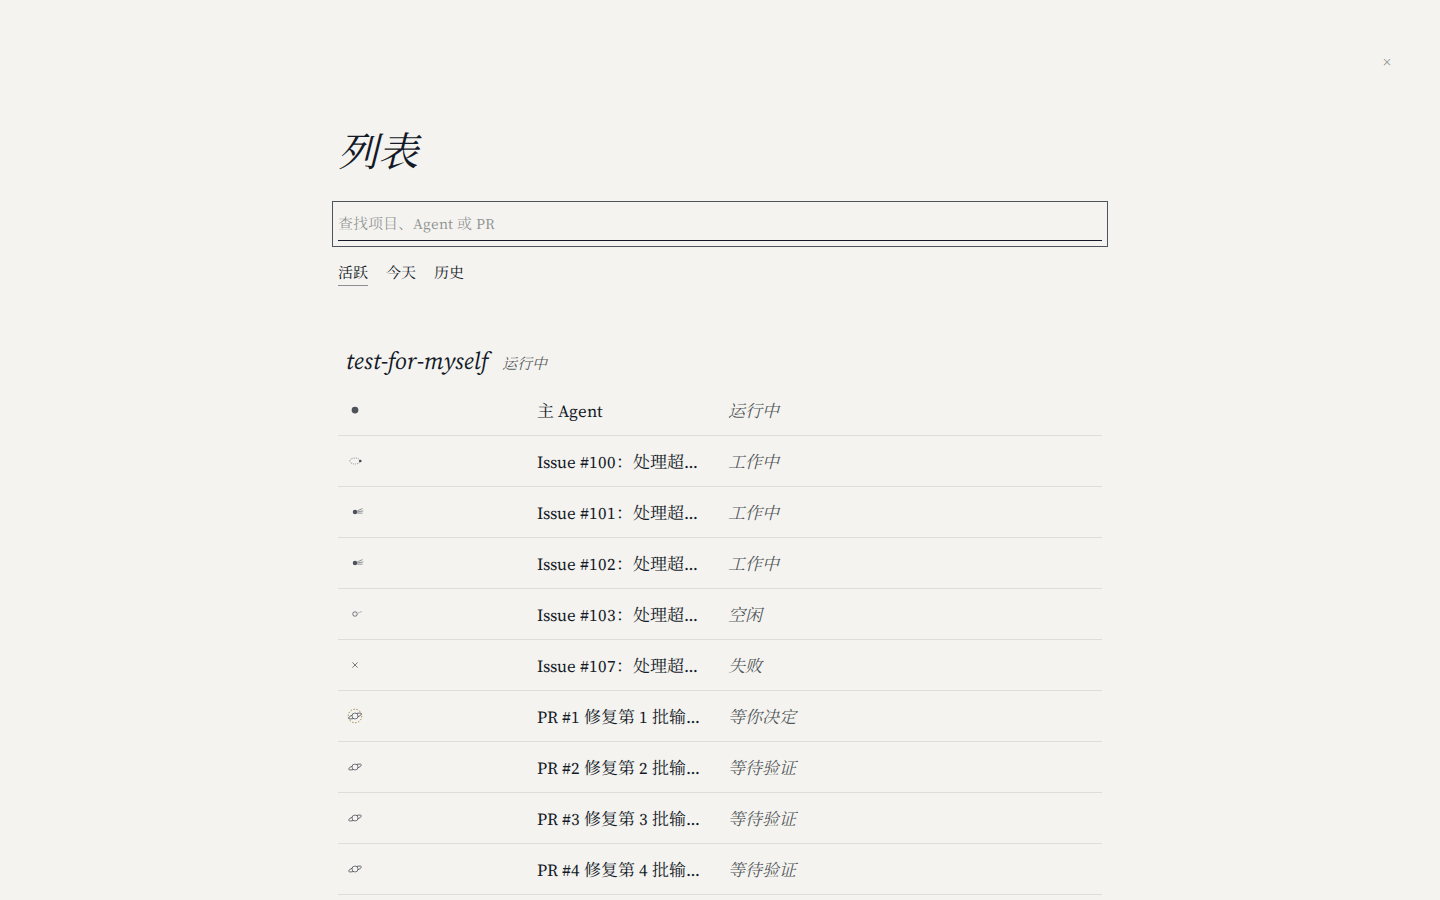
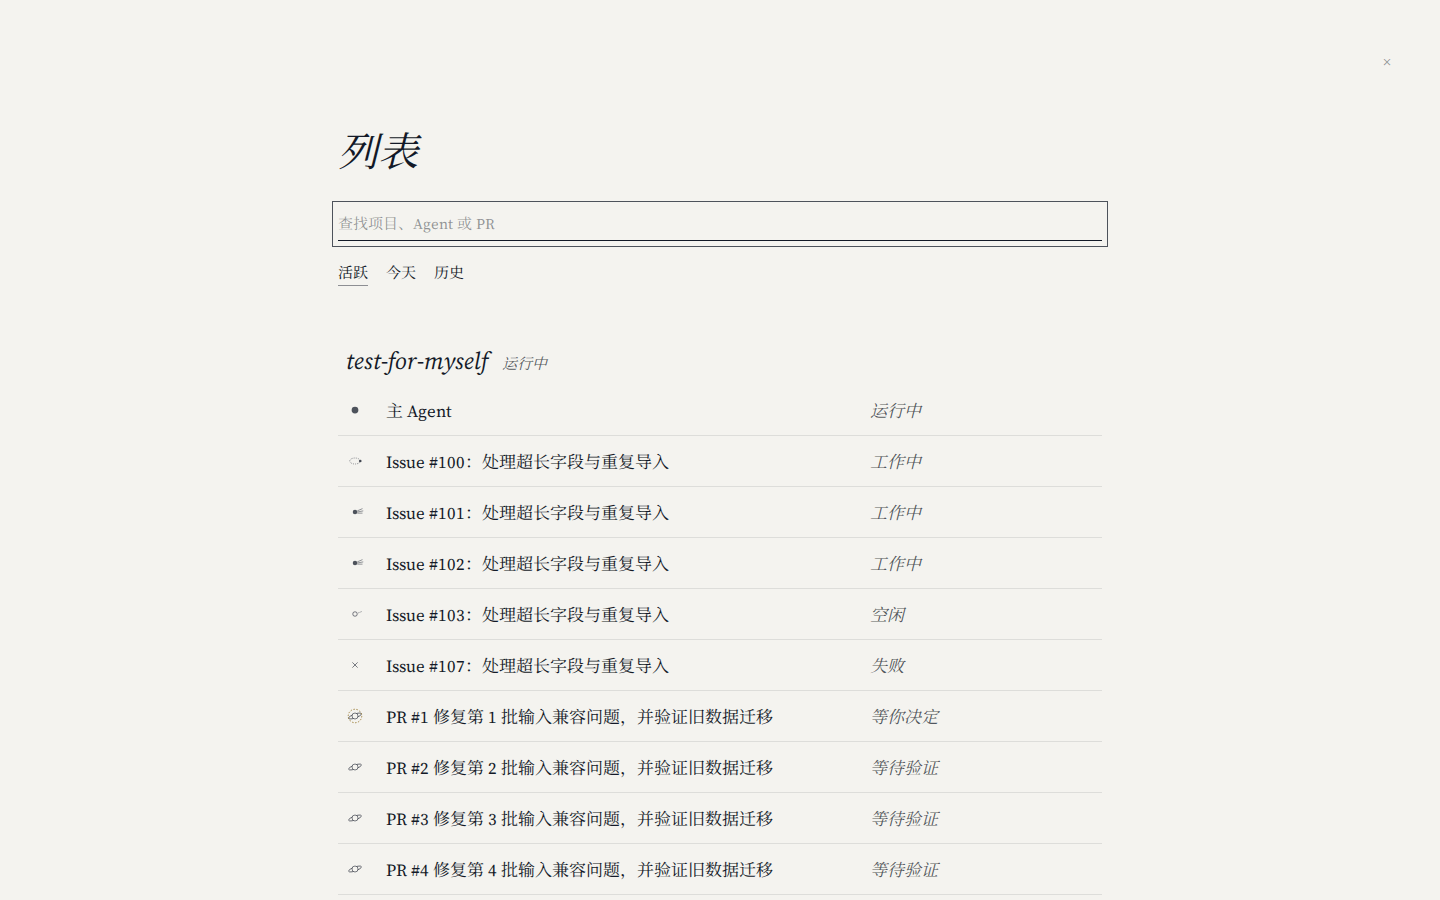
fix(stars): give catalogue glyph and status columns fixed widths

diff --git a/web/src/stars/PeripherySlot.tsx b/web/src/stars/PeripherySlot.tsx
@@ -173,7 +173,7 @@ export default function PeripherySlot(props: StarsSlotProps) {
     <nav className={`stars-tools${state.selection || state.platformPanel || state.overlay === "list" ? " covered" : ""}`} aria-label="工具">{(["brief", "list", "timeline", "legend", "display"] as Overlay[]).map((o, i) => <button key={o} aria-pressed={state.overlay === o} className={state.overlay === o ? "on" : ""} onClick={() => state.overlay === o ? ui.close() : ui.openOverlay(o)}>{["简报", "列表", "时间", "图例", "显示"][i]}</button>)}</nav>
     {(!projects.length || (setup && (!setup.github.configured || !setup.models.available))) && <section className="periphery-onboarding" aria-label="首次使用"><h2>开始你的第一个项目</h2>{!setup ? <p role="status">{platformError || "正在读取接入和模型状态…"}{platformError && <button onClick={() => setPlatformAttempt((n) => n + 1)}>重新读取状态</button>}</p> : <ol>{[[setup.github.configured && setup.github.installations > 0, "接入 GitHub", () => ui.openPlatform("setup")], [setup.models.available && models?.gatewayAvailable === true, "填写模型凭证", () => ui.openPlatform("models")], [projects.length > 0, "创建第一个项目", openCreate]].map(([done, label, run]) => <li key={String(label)} data-complete={!!done}><span aria-hidden="true">{done ? "★" : "☆"}</span><button onClick={run as () => void}>{String(label)}，{done ? "已完成" : "待完成"}</button></li>)}</ol>}</section>}
     <section className={`periphery-brief${state.overlay === "brief" ? " open" : ""}`} aria-label="简报" role="dialog" aria-hidden={state.overlay !== "brief"} inert={state.overlay !== "brief"}><h2>{needCount ? "有事需要你。" : "一切正常，不需要你做什么。"}</h2><p className="sub">{summary}</p><div className="periphery-foot"><button className="go" onClick={enterStars}>进入星图</button><label><input type="checkbox" checked={skip} onChange={(e) => { setSkip(e.target.checked); preference.write("sj-brief", e.target.checked ? "off" : "on"); }} />下次直接进入星图</label></div><div className="periphery-brief-body"><h3>需要你</h3>{decisions.slice(0, 3).map(({ e, d }) => d.kind === "pr" ? briefItem(`PR #${d.pr.number} ${prSummary(d.pr, 30)}`, e.s.hive.name, () => ui.selectObject({ hiveId: e.id, kind: "pr", id: d.id, number: d.pr.number }), `${e.id}:${d.id}`, true) : briefItem(messagePreview(d.message), e.s.hive.name, () => d.message.from === "queen" ? ui.selectObject({ hiveId: e.id, kind: "queen", id: `${e.id}:queen` }) : ui.selectObject({ hiveId: e.id, kind: "agent", id: d.message.from.replace(/^forager:/, "") }), `${e.id}:${d.id}`, true))}{decisions.length > 3 && briefItem(`还有 ${decisions.length - 3} 个`, "在列表里查看", () => { setScope("active"); setSearch(""); ui.openOverlay("list"); }, "more-decisions")}{!decisions.length && <p className="periphery-muted">暂时没有等你决定的事。</p>}{!loaded && <p role="status">正在读取项目…</p>}{entries.some((e) => e.state.resources.prs.status === "loading") && <p role="status">正在向 GitHub 读取 PR…</p>}<h3>正在进行</h3>{active.slice(0, 3).map(({ e, a }) => briefItem(agentSummary(a, { prs: e.s.prs, issues: e.s.signals }, 30), e.s.hive.name, () => ui.selectObject({ hiveId: e.id, kind: "agent", id: a.id }), a.id))}{active.length > 3 && briefItem(`还有 ${active.length - 3} 个`, "在列表里查看", () => { setScope("active"); setSearch(""); ui.openOverlay("list"); }, "more-active")}{!active.length && <p className="periphery-muted">当前没有工作中的 Agent。</p>}<h3>需要留意</h3>{attention.map(({ e, a }) => <div className="periphery-attention" key={a.id}>{briefItem(agentSummary(a, { prs: e.s.prs, issues: e.s.signals }, 30), a.state === "failed" ? "失败" : "仍占名额", () => ui.selectObject({ hiveId: e.id, kind: "agent", id: a.id }), `attention:${a.id}`)}<button className="ack" onClick={() => acknowledge(e, a)}>知道了</button></div>)}{setup && (!setup.models.available || models?.gatewayAvailable === false) && briefItem(models?.gatewayAvailable === false ? "模型服务无法连接，请检查服务。" : setup.models.configured ? "凭证已保存，目前无可用凭证。" : "尚无可用模型凭证。", "平台设置", () => ui.openPlatform("models"), "models")}{platformError && <p role="alert">无法读取平台状态：{platformError} <button onClick={() => setPlatformAttempt((n) => n + 1)}>重新读取状态</button></p>}{!attention.length && !platformError && <p className="periphery-muted">{setup && loaded ? "已读取最新平台与项目状态。" : "正在检查平台与项目状态…"}</p>}<h3>昨晚完成</h3><p className="periphery-muted">{lastNight} 个 Agent 完成（按更新时间近似）；昨晚合并数和花费暂时无法获取。</p>{usage && <p className="periphery-muted">今天花费 {money(usage.totals.costUsd)}</p>}</div></section>
-    <section className={`periphery-list${state.overlay === "list" ? " open" : ""}`} role="dialog" aria-label="列表" aria-hidden={state.overlay !== "list"} inert={state.overlay !== "list"}><button className="periphery-sheet-x" aria-label="关闭" onClick={() => ui.close()}>×</button><div className="inner"><h2>列表</h2><input ref={listInput} aria-label="查找项目、Agent 或 PR" placeholder="查找项目、Agent 或 PR" autoComplete="off" value={search} onChange={(e) => setSearch(e.target.value)} /><div className="periphery-scope" aria-label="列表筛选">{(["active", "today", "history"] as const).map((value, i) => <button key={value} className={scope === value ? "on" : ""} aria-pressed={scope === value} onClick={() => setScope(value)}>{["活跃", "今天", "历史"][i]}</button>)}</div><table><tbody>{groups.map(({ e, rows: projectRows }) => <FragmentRows key={e.id} e={e} rows={projectRows} glyph={glyph} />)}{!groups.length && <tr><td className="s" colSpan={4}>{loaded ? "没有找到。" : "正在读取项目列表…"}</td></tr>}</tbody></table></div></section>
+    <section className={`periphery-list${state.overlay === "list" ? " open" : ""}`} role="dialog" aria-label="列表" aria-hidden={state.overlay !== "list"} inert={state.overlay !== "list"}><button className="periphery-sheet-x" aria-label="关闭" onClick={() => ui.close()}>×</button><div className="inner"><h2>列表</h2><input ref={listInput} aria-label="查找项目、Agent 或 PR" placeholder="查找项目、Agent 或 PR" autoComplete="off" value={search} onChange={(e) => setSearch(e.target.value)} /><div className="periphery-scope" aria-label="列表筛选">{(["active", "today", "history"] as const).map((value, i) => <button key={value} className={scope === value ? "on" : ""} aria-pressed={scope === value} onClick={() => setScope(value)}>{["活跃", "今天", "历史"][i]}</button>)}</div><table><colgroup><col className="col-glyph" /><col className="col-summary" /><col className="col-status" /><col className="col-cost" /></colgroup><tbody>{groups.map(({ e, rows: projectRows }) => <FragmentRows key={e.id} e={e} rows={projectRows} glyph={glyph} />)}{!groups.length && <tr><td className="s" colSpan={4}>{loaded ? "没有找到。" : "正在读取项目列表…"}</td></tr>}</tbody></table></div></section>
     <section className={`periphery-pop periphery-legend${state.overlay === "legend" ? " open" : ""}`} role="dialog" aria-label="图例" aria-hidden={state.overlay !== "legend"} inert={state.overlay !== "legend"}><h2>图例</h2>{([ ["star", "主 Agent，每个项目中间的那颗"], ["hist", "做完的事，散在最外层；越亮越新"], ["cluster", "放不下的 PR 或 Issue，点开看全部"], ["busy", "工作中的 Agent，尾巴越长越忙"], ["parked", "空闲的 Agent"], ["failed", "失败的 Agent"], ["pr", "PR"], ["ready", "等你决定的 PR"], ["moon", "正在验证 PR 的 verifier"], ["signal", "GitHub 上的 Issue"], ["ci", "未通过的 CI"], ["queue", "排队等待的任务"], ["you", "你"] ] as [StarGlyph, string][]).map(([kind, label]) => <div className="k" key={kind}>{glyph(kind)}<span>{label}</span></div>)}</section>
     <section className={`periphery-pop periphery-display${state.overlay === "display" ? " open" : ""}`} role="dialog" aria-label="显示" aria-hidden={state.overlay !== "display"} inert={state.overlay !== "display"}><div className="opt">风格<span>{(["classic", "simple"] as const).map((value, i) => <button key={value} className={theme.style === value ? "on" : ""} aria-pressed={theme.style === value} onClick={() => themeStore.setStyle(value)}>{["经典", "简洁"][i]}</button>)}</span></div><div className="opt">主题<span>{Object.entries(THEMES).map(([id, t]) => <button key={id} className={theme.choice === id ? "on" : ""} aria-pressed={theme.choice === id} onClick={() => themeStore.setTheme(id as ThemeChoice)}>{t.label}</button>)}<button className={theme.choice === "system" ? "on" : ""} aria-pressed={theme.choice === "system"} onClick={() => themeStore.setTheme("system")}>跟随系统</button></span></div><div className="opt">经纬线<span><button className={theme.render.grid ? "on" : ""} aria-pressed={theme.render.grid} onClick={() => themeStore.setGrid(true)}>显示</button><button className={!theme.render.grid ? "on" : ""} aria-pressed={!theme.render.grid} onClick={() => themeStore.setGrid(false)}>隐藏</button></span></div></section>
     <form className={`stars-say${state.overlay === "brief" || state.overlay === "timeline" ? " suppressed" : ""}`} onSubmit={onSay}><input ref={input} aria-label="对话与命令" aria-describedby="periphery-say-hint" placeholder="对主 Agent 说：新任务、问题都可以" autoComplete="off" value={text} onChange={(e) => setText(e.target.value)} /><button className="stars-say-submit" disabled={!text.trim() || (busy && !route)} aria-label={route ? "前往" : "发送"}>{route ? "前往" : "发送"}</button></form><div id="periphery-say-hint" className={`stars-say-hint${text ? " on" : ""}`} role="status">{text ? `回车${route ? route.label : current ? "发给主 Agent" : "前请先选择项目"}` : ""}</div>

diff --git a/web/src/stars/periphery.css b/web/src/stars/periphery.css
@@ -29,6 +29,7 @@
 .periphery-list input{display:block;width:100%;margin-top:26px;padding:6px 0!important;border:0!important;border-bottom:1px solid var(--ink3)!important;background:none!important;font:italic 20px var(--body);outline:0;outline-offset:0}.periphery-list input:focus-visible{outline:1px solid var(--ink2)!important;outline-offset:5px!important;border-color:var(--ink)!important}.periphery-list input::placeholder{color:var(--ink3)}
 .periphery-scope{display:flex;gap:18px;margin-top:18px}.periphery-scope button{font:italic 16px var(--body);color:var(--ink3);border-bottom:1px solid transparent!important;padding:2px 0!important}.periphery-scope button:hover,.periphery-scope button.on{color:var(--ink);border-color:var(--ink3)!important}
 .periphery-list table{width:100%;border-collapse:collapse;margin-top:18px;table-layout:fixed}.periphery-list td{padding:12px 8px;border-bottom:1px solid var(--hair);font-size:17px;vertical-align:middle}.periphery-list tr.item{cursor:pointer}.periphery-list tr.item:hover td,.periphery-list tr.item:hover .g{color:var(--ink)}.periphery-list tr.item:focus-visible{outline:1px solid var(--ink2);outline-offset:2px}
+.periphery-list .col-glyph{width:40px}.periphery-list .col-status{width:150px}.periphery-list .col-cost{width:90px}
 .periphery-list .g{width:40px;color:var(--ink2)}.periphery-list .g svg{width:18px;height:18px;display:block}.periphery-list td:nth-child(2){overflow:hidden;text-overflow:ellipsis;white-space:nowrap}.periphery-list .s{width:150px;color:var(--ink2);font-style:italic;white-space:nowrap}.periphery-list .c{text-align:right;color:var(--ink3);font-variant-numeric:oldstyle-nums;width:90px;white-space:nowrap}.periphery-list tr.grp td{border:0;padding:40px 8px 8px;font:italic 24px var(--body)}.periphery-list tr.grp small{font-size:15px;color:var(--ink2);margin-left:14px}
 .periphery-pop{position:absolute;right:52px;bottom:88px;background:var(--veil);border:1px solid var(--hair);outline:1px solid var(--hair);outline-offset:3px;padding:22px 26px;opacity:0;pointer-events:none;transform:translateY(6px);transition:opacity .3s,transform .3s;z-index:7}.periphery-pop.open{opacity:1;pointer-events:auto;transform:none}
 .periphery-legend{width:300px}.periphery-legend h2{font:400 20px var(--title);margin:0 0 12px}.periphery-legend .k{display:flex;align-items:center;gap:14px;font-size:15px;color:var(--ink2);padding:5px 0}.periphery-legend .k svg{width:22px;height:22px;flex:none;color:var(--ink)}
@@ -39,6 +40,7 @@
 .stars-login-mark{position:absolute;left:60px;top:54px;font:italic 400 21px var(--title)}.stars-login{position:absolute;left:50%;top:50%;transform:translate(-50%,-50%);width:min(500px,calc(100vw - 52px));max-height:calc(100vh - 80px);overflow:auto;scrollbar-width:none;background:var(--paper);border:1px solid var(--hair);outline:1px solid var(--hair);outline-offset:-7px;padding:56px 64px 48px}.stars-login-kicker{font:italic 15px var(--body);color:var(--ink2);margin:0 0 12px}.stars-login h1{font:italic 400 40px var(--title);margin:0}.stars-login-lead{font-size:17px;line-height:1.6;color:var(--ink2);margin:10px 0 28px}.stars-login label{display:block;margin:22px 0;font-size:15px;color:var(--ink2)}.stars-login input{display:block;width:100%;border:0;border-bottom:1px solid var(--ink3);background:transparent;padding:10px 0 6px;font-size:17px;color:var(--ink)}.stars-login input:focus-visible{outline:0;border-color:var(--ink)}.stars-login-submit{font:italic 17px var(--body)!important;color:var(--ink)!important;border-bottom:1px solid var(--ink)!important;padding:2px 0!important;margin-top:10px}.stars-login [role=alert]{line-height:1.7;color:var(--accent)}
 .stars-login-page .stars-login{animation:login-enter .5s both}.stars-login-page.leaving .stars-login{animation:login-leave .3s both}.stars-login-page.leaving .stars-login-mark{opacity:0;transition:opacity .3s}@keyframes login-enter{from{opacity:0;transform:translate(-50%,calc(-50% + 10px))}to{opacity:1;transform:translate(-50%,-50%)}}@keyframes login-leave{to{opacity:0;transform:translate(-50%,calc(-50% + 10px))}}
 @media(max-width:720px){.stars-mark{left:30px;top:30px}.stars-cartouche{left:30px;bottom:175px;max-width:calc(100vw - 60px)}.stars-cartouche h1{font-size:24px}.stars-say{width:220px}.stars-say:focus-within{width:calc(100vw - 60px)}.stars-tools{right:28px;bottom:92px;gap:10px;max-width:calc(100vw - 56px);flex-wrap:wrap;justify-content:flex-end}.stars-tools button{font-size:14px}.periphery-brief{left:30px;top:90px;width:calc(100vw - 60px);max-height:calc(100vh - 200px)}.periphery-list .inner{margin:90px auto 70px;padding:0 30px}.periphery-list .s{width:88px}.periphery-list .c{width:58px}.periphery-list td{font-size:14px;padding:10px 4px}.periphery-pop{right:20px;bottom:130px;max-width:calc(100vw - 40px)}.periphery-display .opt span{gap:8px}.periphery-display .opt button{font-size:13px}.periphery-create{padding:22px}.stars-login-mark{left:30px;top:30px}.stars-login{padding:50px 32px 36px}}
+@media(max-width:720px){.periphery-list .col-status{width:88px}.periphery-list .col-cost{width:58px}}
 @media(prefers-reduced-motion:reduce){.periphery-list,.periphery-pop,.periphery-brief,.stars-say,.stars-say-hint,.stars-cartouche h1,.stars-cartouche p,.stars-status{transition:none!important}.stars-login-page .stars-login{animation:none!important}}
 /* Approved contrast exception: readable auxiliary text uses the existing ink2. */
 .stars-crumbs,.stars-say-hint,.periphery-brief h3,.periphery-it-state,

diff --git a/web/tests/round8-periphery.spec.ts b/web/tests/round8-periphery.spec.ts
@@ -62,6 +62,30 @@ test("375px 和快捷键可操作", async ({ page }) => {
   await expect(page.getByLabel("对话与命令")).toBeFocused();
 });
 
+test("列表图标与状态列保持设计宽度，摘要占剩余空间且手机可打开详情", async ({ browser }) => {
+  for (const width of [1440, 375]) {
+    const context = await browser.newContext({ viewport: { width, height: 900 }, reducedMotion: "reduce" });
+    const page = await context.newPage();
+    await preview(page);
+    await page.getByRole("button", { name: "进入星图" }).click();
+    await page.getByRole("button", { name: "列表", exact: true }).click();
+    const list = page.getByRole("dialog", { name: "列表" });
+    await expect(list).toBeVisible();
+    const sizes = await list.locator("tr.item").first().locator("td").evaluateAll((cells) => cells.map((cell) => Math.round(cell.getBoundingClientRect().width)));
+    console.log(`catalogue ${width}px columns: ${sizes.join(" / ")}`);
+    expect(sizes, `${width}px column widths`).toHaveLength(4);
+    expect(sizes[0], `${width}px glyph`).toBeLessThanOrEqual(48);
+    expect(sizes[2], `${width}px status`).toBeLessThanOrEqual(width === 1440 ? 158 : 96);
+    expect(sizes[3], `${width}px cost`).toBeLessThanOrEqual(width === 1440 ? 98 : 66);
+    expect(sizes[1], `${width}px summary`).toBeGreaterThan(width === 1440 ? 400 : 100);
+    expect(await list.evaluate((element) => element.scrollWidth)).toBeLessThanOrEqual(width);
+    await list.getByLabel("查找项目、Agent 或 PR").fill("PR #1");
+    await list.locator("tr.item").first().click();
+    await expect(page.getByRole("region", { name: "对象详情" })).toBeVisible();
+    await context.close();
+  }
+});
+
 test("明亮和夜空稳定画面逐层执行完整 axe", async ({ browser }) => {
   for (const theme of ["bright", "night"] as const) {
     const context = await browser.newContext({ viewport: { width: 1440, height: 900 }, reducedMotion: "reduce" });

diff --git a/docs/claude/round8-periphery/README.md b/docs/claude/round8-periphery/README.md
@@ -5,7 +5,7 @@
 | 界面 | 明亮 | 夜空 | 对照差异 |
 |---|---|---|---|
 | 简报 | [并排图](compare-bright-brief.png) | [并排图](compare-night-brief.png) | 设计稿展示三个项目及固定示例；实现使用一个高密度项目和真实派生数据，因而决定数、文案与星图不同。结构、字号、左上位置、行间距、细线和进出位移沿用设计稿。实现增加“还有 N 个”与最近 24 小时失败项的“知道了”；右侧状态保持一行。1440×900 下“需要你”与“需要留意”同屏。点击“进入星图”后按设计推近待决定的项目。 |
-| 列表 | [并排图](compare-bright-list.png) | [并排图](compare-night-list.png) | 设计稿按项目列出当前对象；实现添加任务要求的“活跃 / 今天 / 历史”三项筛选，历史对象可搜索。数据内容不同。列表背景改为不透底的既有 `--paper`，避免下层文字透出；搜索焦点仍用设计稿的细线。项目行 15px 状态注记原 `--ink3` 在明亮主题被 axe 测得 2.91:1，按用户批准的局部例外只改为既有 `--ink2`。 |
+| 列表 | [并排图](compare-bright-list.png) | [并排图](compare-night-list.png) | 设计稿按项目列出当前对象；实现添加任务要求的“活跃 / 今天 / 历史”三项筛选，历史对象可搜索。数据内容不同。[列宽回归记录](list-columns.md)确认图标/摘要/状态/费用为 40/484/150/90px，375px 下为 40/129/88/58px。列表背景改为不透底的既有 `--paper`，避免下层文字透出；搜索焦点仍用设计稿的细线。项目行 15px 状态注记原 `--ink3` 在明亮主题被 axe 测得 2.91:1，按用户批准的局部例外只改为既有 `--ink2`。 |
 | 图例 | [并排图](compare-bright-legend.png) | [并排图](compare-night-legend.png) | 位置、尺寸、行距、图形定义照设计稿；实现按本轮需求增加 CI，故多一行。原稿的 h4 调整为视觉相同的 h2，让 axe 标题顺序通过。星图由另一任务实现，图形与其共享 `star-glyphs.ts`。 |
 | 显示 | [并排图](compare-bright-display.png) | [并排图](compare-night-display.png) | 三行文字切换及位置尺寸与设计稿一致，主题项依次为明亮、纸本、夜空、跟随系统；没有原生选择框或复选框。背后星图和项目数因 mock 不同。 |
 | 命令 | [并排图](compare-bright-command.png) | [并排图](compare-night-command.png) | 输入框、聚焦宽度、细线和底部提示沿用设计稿；Enter 执行命令或发送消息，提交按钮仅供读屏访问、不占视觉宽度。实现用真实 API 发送并在发送期间保留后续输入草稿。 |

diff --git a/docs/claude/round8-periphery/list-columns.md b/docs/claude/round8-periphery/list-columns.md
@@ -1,0 +1,14 @@
+# 列表列宽回归
+
+复现：原列表使用 `table-layout: fixed`，首行是 `colSpan=4` 的项目分组且没有 `colgroup`。在 1440×900 的真实规模 mock 下，Playwright 实测第一项图标单元格 **191px**，标题列同样被等分，长摘要只露开头。
+
+修复：保留固定表格布局与单行省略，明确四列为图标 40px、摘要占剩余宽、状态 150px、费用 90px；375px 时状态和费用改为 88px、58px。没有改数据层或手机端的 `nowrap` 规则。
+
+命令：`cd web && PLAYWRIGHT_PORT=5278 npx playwright test tests/round8-periphery.spec.ts -g '列表图标与状态列保持设计宽度'`。结果 1/1 通过，实测列宽：
+
+| 视口 | 图标 | 摘要 | 状态 | 费用 |
+|---:|---:|---:|---:|---:|
+| 1440px | 40px | 484px | 150px | 90px |
+| 375px | 40px | 129px | 88px | 58px |
+
+测试同时断言列表自身不超过视口宽度，搜索 PR 后可点击该行并打开详情。修正后的[明亮并排图](compare-bright-list.png)和[夜空并排图](compare-night-list.png)显示标题列恢复为主宽。
